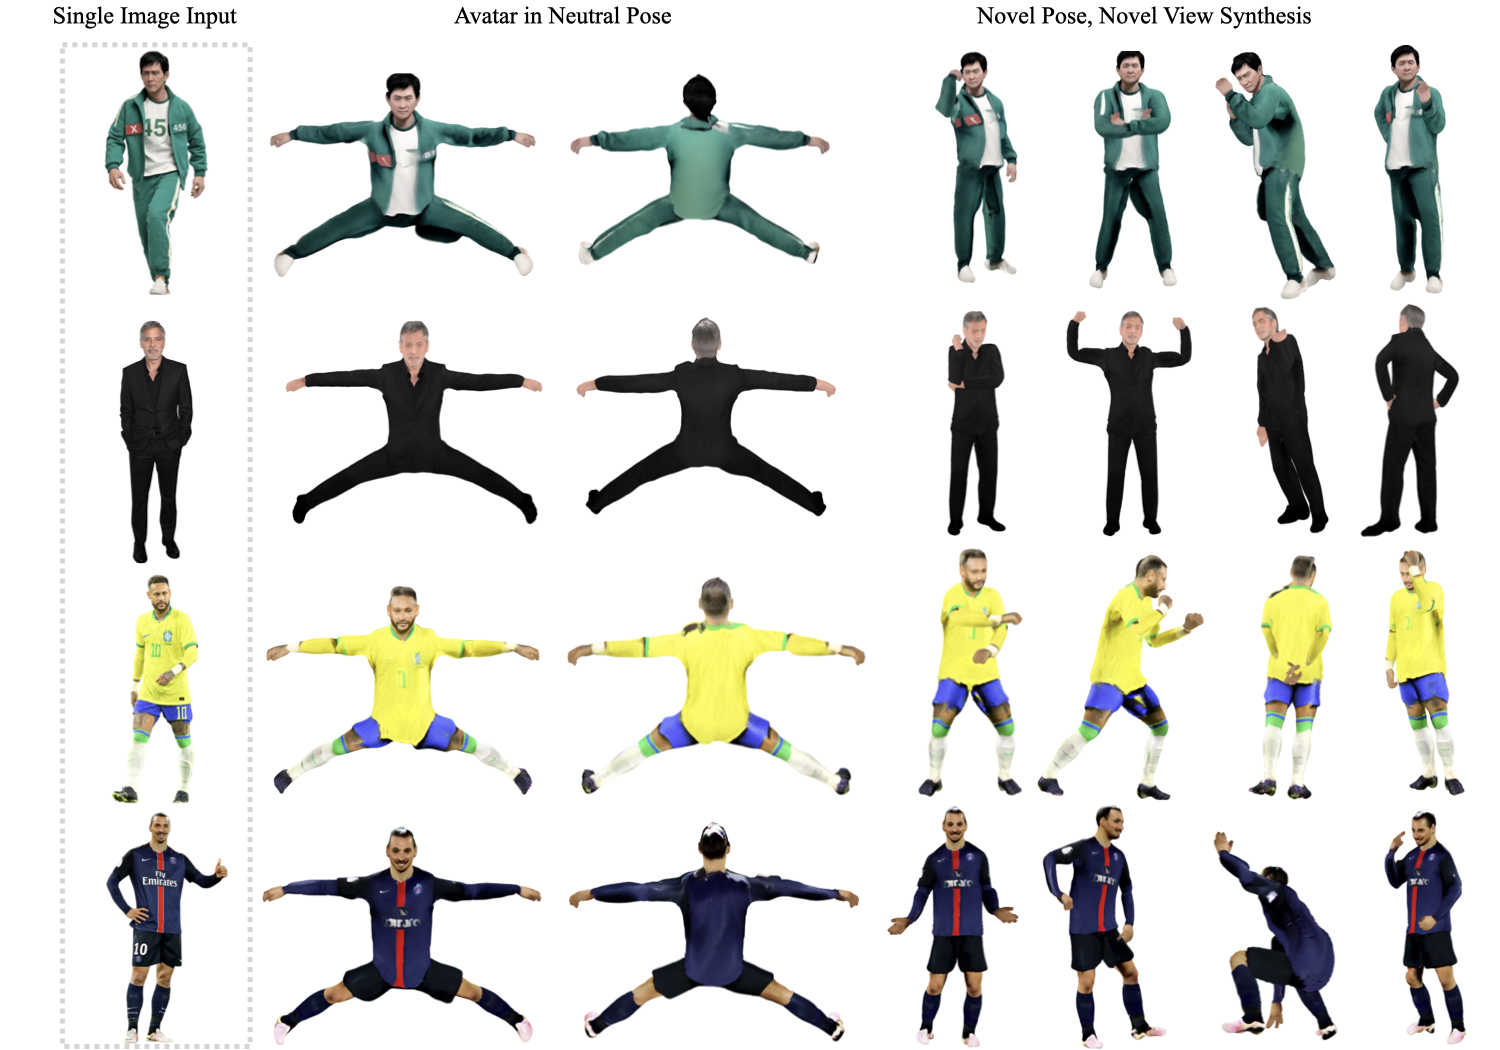
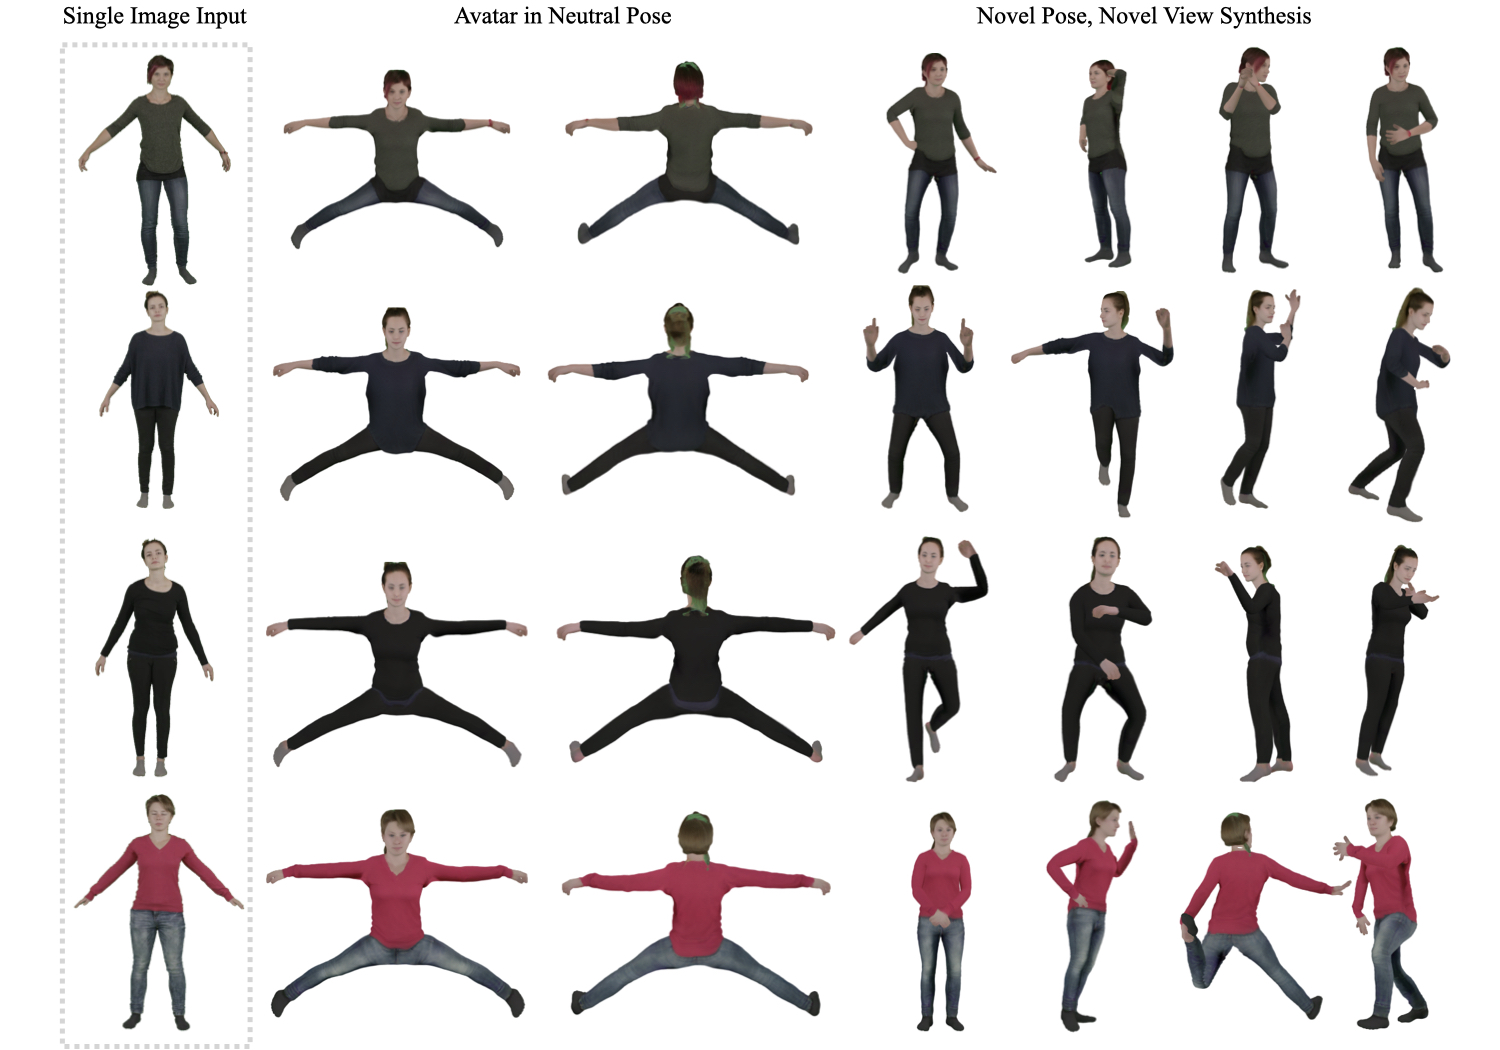
Update index.html

diff --git a/index.html b/index.html
@@ -191,26 +191,34 @@
     <section class="section">
         <div class="container is-max-desktop">
             <h2 class="title is-3">Qualitative Results</h2>
-            <p> Qualitaitve results of SVAD with avatars trained from in-the-wild images from the internet</p>
+            <p> Qualitaitve results of SVAD with avatars trained from images in public datasets.</p>
             <br>
             <div class="column has-text-centered">
             <div id="results-carousel" class="slider results-carousel">
             <div class="slider-item">
-                <!-- Your image here -->
                 <img src="static/images/carousel.001.jpeg" style="width: 100%; height: auto;"/>
                 <br>
-                <h2 class="subtitle has-text-centered" style="font-size: 20px; font-weight: bold;">Avatars of famous celebrities</h2>
+                <h2 class="subtitle has-text-centered" style="font-size: 20px; font-weight: bold;">Avatars from the People Snapshot Dataset</h2>
             </div>
             <div class="slider-item">
-                <!-- Your image here -->
                 <img src="./static/images/carousel.002.jpeg" style="width: 100%; height: auto;"/>
                 <br>
-                <h2 class="subtitle has-text-centered" style="font-size: 20px; font-weight: bold;">Avatars of famous celebrities</h2>
+                <h2 class="subtitle has-text-centered" style="font-size: 20px; font-weight: bold;">Avatars from the People Snapshot Dataset</h2>
             </div>
             <div class="slider-item" style="text-align: center;">
-                <img src="./static/images/S1_additional_wild_2.jpg" style="width: 100%; height: auto;"/>
+                <img src="./static/images/carousel.003.jpeg" style="width: 100%; height: auto;"/>
                 <br>
-                <h2 class="subtitle has-text-centered" style="font-size: 20px; font-weight: bold;" ></h2>
+                <h2 class="subtitle has-text-centered" style="font-size: 20px; font-weight: bold;" >Avatars from the People Snapshot Dataset</h2></h2>
+            </div>
+            <div class="slider-item" style="text-align: center;">
+                <img src="./static/images/carousel.004.jpeg" style="width: 100%; height: auto;"/>
+                <br>
+                <h2 class="subtitle has-text-centered" style="font-size: 20px; font-weight: bold;" >Avatars from the THuman Dataset</h2></h2>
+            </div>
+            <div class="slider-item" style="text-align: center;">
+                <img src="./static/images/carousel.005.jpeg" style="width: 100%; height: auto;"/>
+                <br>
+                <h2 class="subtitle has-text-centered" style="font-size: 20px; font-weight: bold;" >Avatars from the THuman Dataset</h2>
             </div>
             </div>
         </div>
